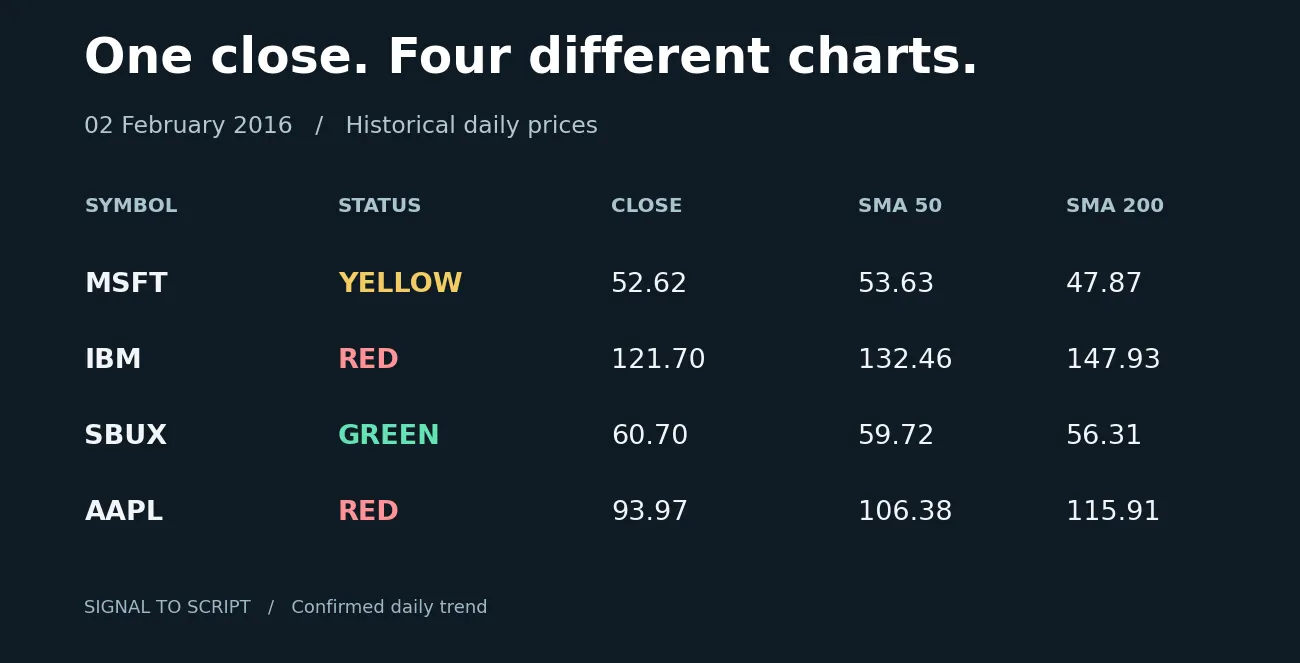
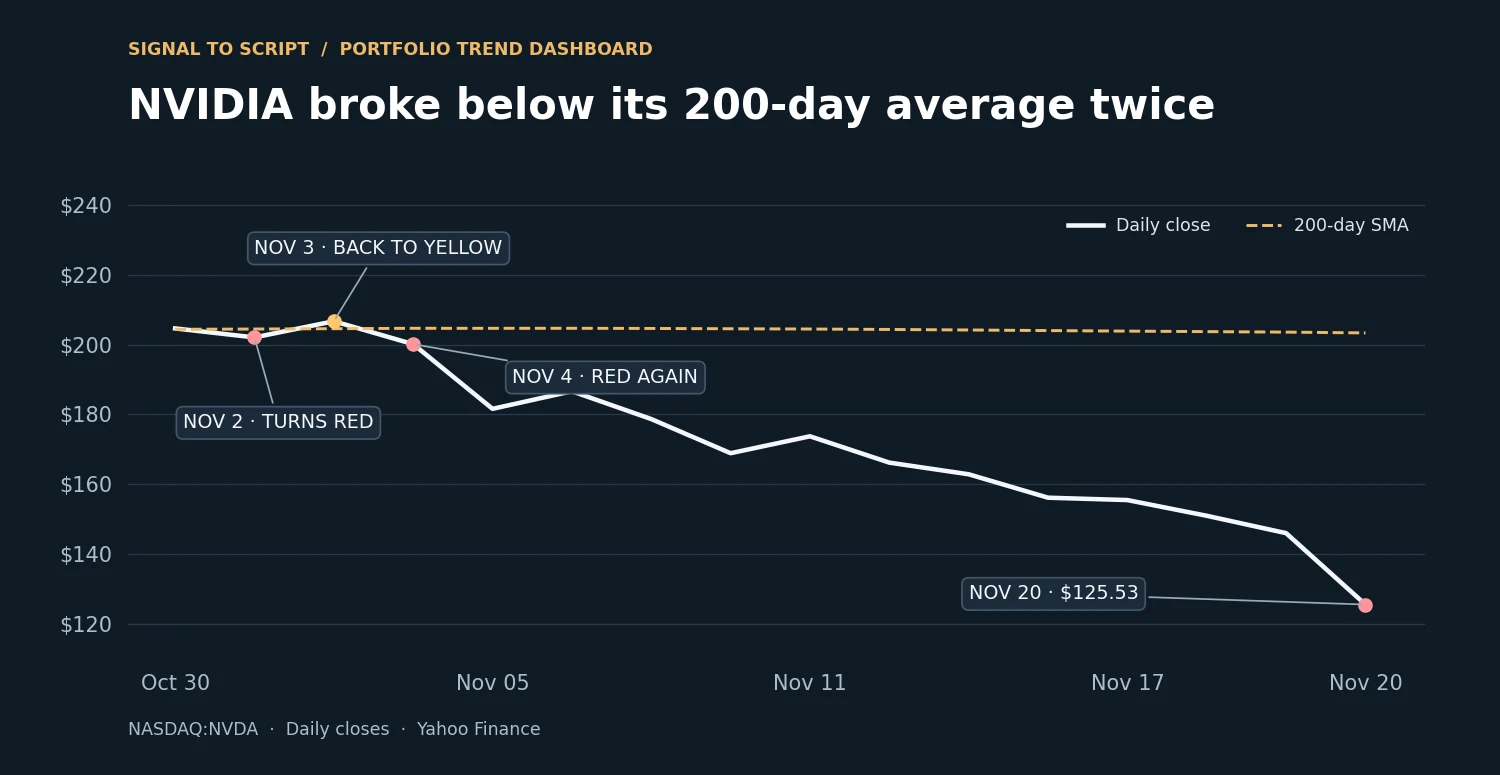
Tell the NVIDIA dashboard story with recent daily closes

diff --git a/public/index.html b/public/index.html
@@ -27,7 +27,7 @@
     </a>
     <div class="img-caption">Actual TradingView gold 15-minute strategy chart from the documented test. <a href="/articles/gold-breakout-15m-strategy.html">Read the full breakdown</a>.</div>
   </div>
-</div><div class="feature"><div class="feature-body"><div class="eyebrow">Premium launch deal · Pine Script v6</div><h3>Supertrend + DEMA Reversal Strategy</h3><div class="premium-price-line"><strong>From $4.99 USD</strong> <s>$49</s><span class="deal-discount">LIFETIME ACCESS</span></div><p>A modified Supertrend that uses DEMA as its source and converts buy/sell signals into simulated long and short trades.</p><ul class="feature-points"><li><b>Original:</b> Supertrend shows trend direction and signals.</li><li><b>Modified:</b> Select DEMA(50) or another price source.</li><li><b>Added:</b> Reversal trades on opposite signals, with 1-hour signals by default.</li></ul><div class="actions"><a class="btn btn-outline" href="articles/supertrend-dema-reversal-strategy.html">Read article</a><a class="btn" href="/checkout?script=supertrend-dema-reversal#manual-script-request" data-buy-script="supertrend-dema-reversal">Join for $4.99</a><span class="premium-sales-note">Quick request · We’ll email payment instructions</span></div></div><div class="feature-media"><div class="image-frame chart-frame"><img alt="Historical BTC/USDT one-hour chart with Supertrend DEMA bands and Buy/Sell signals" src="images/supertrend-dema-btcusdt-1h.svg" loading="lazy"/></div><div class="img-caption">Real BTC/USDT 1-hour candles with calculated Supertrend + DEMA bands. <a href="https://github.com/SubhayanBiswas/Binance-Vision-Sample-Data" target="_blank" rel="noopener noreferrer">Data source</a>. Not a TradingView screenshot.</div></div></div><div class="feature"><div class="feature-copy"><div class="eyebrow">Premium indicator · Pine Script v6</div><h3>Portfolio Trend Dashboard</h3><p>Which chart needs a second look? Scan up to 30 symbols and get alerted when a confirmed daily trend changes color.</p><div class="actions"><a class="btn" href="/articles/portfolio-trend-dashboard.html">See the dashboard</a><a class="btn btn-outline" href="/checkout?script=portfolio-trend-dashboard" data-buy-script="portfolio-trend-dashboard">Get lifetime access</a></div></div><div class="feature-media"><a class="image-frame image-frame--article" href="/articles/portfolio-trend-dashboard.html"><img src="/images/portfolio-trend-dashboard.webp" width="1300" height="663" loading="lazy" alt="Historical four-stock trend dashboard example"></a></div></div></section><section id="free-scripts"><div class="section-head"><h2>Free TradingView scripts</h2><small>Still free with a guest download or Google sign-in</small></div><div class="feature feature--recent bridge-library-feature"><div class="feature-body">
+</div><div class="feature"><div class="feature-body"><div class="eyebrow">Premium launch deal · Pine Script v6</div><h3>Supertrend + DEMA Reversal Strategy</h3><div class="premium-price-line"><strong>From $4.99 USD</strong> <s>$49</s><span class="deal-discount">LIFETIME ACCESS</span></div><p>A modified Supertrend that uses DEMA as its source and converts buy/sell signals into simulated long and short trades.</p><ul class="feature-points"><li><b>Original:</b> Supertrend shows trend direction and signals.</li><li><b>Modified:</b> Select DEMA(50) or another price source.</li><li><b>Added:</b> Reversal trades on opposite signals, with 1-hour signals by default.</li></ul><div class="actions"><a class="btn btn-outline" href="articles/supertrend-dema-reversal-strategy.html">Read article</a><a class="btn" href="/checkout?script=supertrend-dema-reversal#manual-script-request" data-buy-script="supertrend-dema-reversal">Join for $4.99</a><span class="premium-sales-note">Quick request · We’ll email payment instructions</span></div></div><div class="feature-media"><div class="image-frame chart-frame"><img alt="Historical BTC/USDT one-hour chart with Supertrend DEMA bands and Buy/Sell signals" src="images/supertrend-dema-btcusdt-1h.svg" loading="lazy"/></div><div class="img-caption">Real BTC/USDT 1-hour candles with calculated Supertrend + DEMA bands. <a href="https://github.com/SubhayanBiswas/Binance-Vision-Sample-Data" target="_blank" rel="noopener noreferrer">Data source</a>. Not a TradingView screenshot.</div></div></div><div class="feature"><div class="feature-copy"><div class="eyebrow">Premium indicator · Pine Script v6</div><h3>Portfolio Trend Dashboard</h3><p>Which chart needs a second look? Scan up to 30 symbols and get alerted when a confirmed daily trend changes color.</p><div class="actions"><a class="btn" href="/articles/portfolio-trend-dashboard.html">See the dashboard</a><a class="btn btn-outline" href="/checkout?script=portfolio-trend-dashboard" data-buy-script="portfolio-trend-dashboard">Get lifetime access</a></div></div><div class="feature-media"><a class="image-frame image-frame--article" href="/articles/portfolio-trend-dashboard.html"><img src="/images/portfolio-trend-dashboard.webp" width="1500" height="775" loading="lazy" alt="NVIDIA daily closes showing two breaks below its 200-day average"></a></div></div></section><section id="free-scripts"><div class="section-head"><h2>Free TradingView scripts</h2><small>Still free with a guest download or Google sign-in</small></div><div class="feature feature--recent bridge-library-feature"><div class="feature-body">
 <div class="eyebrow">Free automation example · Pine Script v6</div>
 <h3>Supertrend Visual Bridge for Binance Futures</h3>
 <p>Connect Supertrend signals to a Chrome extension with a color strip on the chart. No TradingView technical alerts, webhooks or separate bot subscription.</p>
@@ -66,4 +66,4 @@
 <h2>Backtest Pine Script strategies for free. As often as you want.</h2>
 <p>Pine Backtest Studio lets you import your own historical candles, run unlimited strategy tests and look beyond net profit with drawdown, Sharpe, Sortino, weekly results, trade streaks and downloadable trade logs.</p></div>
 <div class="btst-home-promo-actions"><a href="https://pine-backtest-studio.pages.dev/" target="_blank" rel="noopener noreferrer">Open free backtester ↗</a><a href="/articles/free-pine-script-backtester-tradingview-alternative.html">See features &amp; how it works →</a></div>
-</section><section class="library" id="articles"><div class="section-head"><h2>Latest articles</h2><small>Notes from the development work</small></div><div class="entry"><div><div class="eyebrow">Portfolio tools / Premium Pine Script</div><div class="entry-title">Four Stocks. One Trend Change. Which Chart Would You Open?</div><p>See the one daily trend change a 30-symbol watchlist dashboard would have flagged in this four-stock example.</p></div><a class="entry-link" href="/articles/portfolio-trend-dashboard.html">Read →</a></div><div class="entry"><div><div class="eyebrow">Gold price action / Pine Script v6</div><div class="entry-title">Gold Flashed a Buy Signal. Why Did This Strategy Wait?</div><p>One no-wick setup retested in six candles. Another came back too late. Follow both on real 15-minute gold charts.</p></div><a class="entry-link" href="/articles/no-wick-ema-retest-strategy.html">Read →</a></div><div class="entry"><div><div class="eyebrow">Free tool / Pine Script backtesting</div><div class="entry-title">A Free Pine Script Backtester with Unlimited Runs and Advanced Analytics</div><p>Import price data, run a Pine v5/v6 strategy and study drawdowns, Sharpe, Sortino, streaks and trade logs without a subscription.</p></div><a class="entry-link" href="/articles/free-pine-script-backtester-tradingview-alternative.html">Read →</a></div><div class="entry"><div><div class="eyebrow">Gold breakout strategy / Pine Script v6</div><div class="entry-title">Gold 15-Minute Breakout: One Range, One Trade a Day</div><p>Follow the overnight-range entry rules, view real gold charts and backtest results, and get the premium Pine Script during the launch offer.</p></div><a class="entry-link" href="/articles/gold-breakout-15m-strategy.html">Read →</a></div><div class="entry"><div><div class="eyebrow">Automation guide / TradingView &amp; Futures</div><div class="entry-title">How to Automate TradingView Indicators on Binance for Free</div><p>No paid alerts or webhooks: Supertrend signals travel through a visual color strip to a Chrome extension that connects with Binance Futures.</p></div><a class="entry-link" href="/articles/automate-tradingview-strategies-chrome-extension.html">Read →</a></div><div class="entry"><div><div class="eyebrow">Candlestick alerts / Pine Script v6</div><div class="entry-title">Pinbar + 3 Line Strike: One Confirmed Combo Alert</div><p>Combine a pinbar with the next candle’s 3LS signal and choose bullish, bearish or any-direction notifications.</p></div><a class="entry-link" href="/articles/pinbar-3-line-strike-combo-alerts.html">Read →</a></div><div class="entry"><div><div class="eyebrow">Indicator modification / 1R price action</div><div class="entry-title">1R Bear Breakout: Which Setups Actually Reach 1R?</div><p>Follow breakout signals beyond the entry, with 1R hit, expiry and multi-trigger tracking.</p></div><a class="entry-link" href="/articles/1r-bear-breakout-achievements.html">Read →</a></div><div class="entry"><div><div class="eyebrow">Indicator modification / Strategy</div><div class="entry-title">Supertrend + DEMA: What changed and how the new strategy works</div><p>A detailed walkthrough of the indicator, strategy modification and the limited-time premium source-code offer.</p></div><a class="entry-link" href="articles/supertrend-dema-reversal-strategy.html">Read →</a></div><div class="entry"><div><div class="eyebrow">Coming soon / Comparison</div><div class="entry-title">Supertrend with HL2 vs DEMA(50)</div><p>How the source setting changes the indicator, illustrated using real chart examples.</p></div><span class="minor">Planned</span></div></section><section id="about" style="padding:12px 0 72px;max-width:680px"><div class="section-head"><h2>About CW</h2></div><p style="color:var(--muted);font-size:15px;line-height:1.8">I'm a software engineer who works on TradingView indicators and Pine Script strategies. This is where I share some of the scripts, the original ideas behind them, and what I changed along the way. The aim is to keep everything easy to understand, even if you're new to Pine Script.</p><div id="support"><h2 style="font:600 24px var(--serif);margin:20px 0 9px">Need help with a script?</h2><p style="color:var(--muted);font-size:15px;line-height:1.8">If you run into any issues with installation, chart configuration, or anything related to a script, email <a href="mailto:support@signaltoscript.com">support@signaltoscript.com</a>.</p></div></section></div></main><footer class="footer"><div class="wrap foot"><div>© 2026 Signal to Script · by CW. Independent Pine Script guides and examples.</div><div>TradingView is a trademark of its respective owner. Not financial advice.</div></div><nav class="policy-links" aria-label="Legal and business policies"><a href="/terms.html">Terms &amp; Conditions</a><a href="/refunds.html">Refund &amp; Cancellation</a><a href="/privacy.html">Privacy Policy</a><a href="mailto:support@signaltoscript.com">support@signaltoscript.com</a></nav></footer><script defer="" src="/site.js"></script></body></html>
+</section><section class="library" id="articles"><div class="section-head"><h2>Latest articles</h2><small>Notes from the development work</small></div><div class="entry"><div><div class="eyebrow">Portfolio tools / Premium Pine Script</div><div class="entry-title">NVIDIA Turned Red Twice. Here’s What the Dashboard Saw.</div><p>Follow NVIDIA’s first red alert, one-day recovery, and second break below the 200-day average on a four-stock semiconductor watchlist.</p></div><a class="entry-link" href="/articles/portfolio-trend-dashboard.html">Read →</a></div><div class="entry"><div><div class="eyebrow">Gold price action / Pine Script v6</div><div class="entry-title">Gold Flashed a Buy Signal. Why Did This Strategy Wait?</div><p>One no-wick setup retested in six candles. Another came back too late. Follow both on real 15-minute gold charts.</p></div><a class="entry-link" href="/articles/no-wick-ema-retest-strategy.html">Read →</a></div><div class="entry"><div><div class="eyebrow">Free tool / Pine Script backtesting</div><div class="entry-title">A Free Pine Script Backtester with Unlimited Runs and Advanced Analytics</div><p>Import price data, run a Pine v5/v6 strategy and study drawdowns, Sharpe, Sortino, streaks and trade logs without a subscription.</p></div><a class="entry-link" href="/articles/free-pine-script-backtester-tradingview-alternative.html">Read →</a></div><div class="entry"><div><div class="eyebrow">Gold breakout strategy / Pine Script v6</div><div class="entry-title">Gold 15-Minute Breakout: One Range, One Trade a Day</div><p>Follow the overnight-range entry rules, view real gold charts and backtest results, and get the premium Pine Script during the launch offer.</p></div><a class="entry-link" href="/articles/gold-breakout-15m-strategy.html">Read →</a></div><div class="entry"><div><div class="eyebrow">Automation guide / TradingView &amp; Futures</div><div class="entry-title">How to Automate TradingView Indicators on Binance for Free</div><p>No paid alerts or webhooks: Supertrend signals travel through a visual color strip to a Chrome extension that connects with Binance Futures.</p></div><a class="entry-link" href="/articles/automate-tradingview-strategies-chrome-extension.html">Read →</a></div><div class="entry"><div><div class="eyebrow">Candlestick alerts / Pine Script v6</div><div class="entry-title">Pinbar + 3 Line Strike: One Confirmed Combo Alert</div><p>Combine a pinbar with the next candle’s 3LS signal and choose bullish, bearish or any-direction notifications.</p></div><a class="entry-link" href="/articles/pinbar-3-line-strike-combo-alerts.html">Read →</a></div><div class="entry"><div><div class="eyebrow">Indicator modification / 1R price action</div><div class="entry-title">1R Bear Breakout: Which Setups Actually Reach 1R?</div><p>Follow breakout signals beyond the entry, with 1R hit, expiry and multi-trigger tracking.</p></div><a class="entry-link" href="/articles/1r-bear-breakout-achievements.html">Read →</a></div><div class="entry"><div><div class="eyebrow">Indicator modification / Strategy</div><div class="entry-title">Supertrend + DEMA: What changed and how the new strategy works</div><p>A detailed walkthrough of the indicator, strategy modification and the limited-time premium source-code offer.</p></div><a class="entry-link" href="articles/supertrend-dema-reversal-strategy.html">Read →</a></div><div class="entry"><div><div class="eyebrow">Coming soon / Comparison</div><div class="entry-title">Supertrend with HL2 vs DEMA(50)</div><p>How the source setting changes the indicator, illustrated using real chart examples.</p></div><span class="minor">Planned</span></div></section><section id="about" style="padding:12px 0 72px;max-width:680px"><div class="section-head"><h2>About CW</h2></div><p style="color:var(--muted);font-size:15px;line-height:1.8">I'm a software engineer who works on TradingView indicators and Pine Script strategies. This is where I share some of the scripts, the original ideas behind them, and what I changed along the way. The aim is to keep everything easy to understand, even if you're new to Pine Script.</p><div id="support"><h2 style="font:600 24px var(--serif);margin:20px 0 9px">Need help with a script?</h2><p style="color:var(--muted);font-size:15px;line-height:1.8">If you run into any issues with installation, chart configuration, or anything related to a script, email <a href="mailto:support@signaltoscript.com">support@signaltoscript.com</a>.</p></div></section></div></main><footer class="footer"><div class="wrap foot"><div>© 2026 Signal to Script · by CW. Independent Pine Script guides and examples.</div><div>TradingView is a trademark of its respective owner. Not financial advice.</div></div><nav class="policy-links" aria-label="Legal and business policies"><a href="/terms.html">Terms &amp; Conditions</a><a href="/refunds.html">Refund &amp; Cancellation</a><a href="/privacy.html">Privacy Policy</a><a href="mailto:support@signaltoscript.com">support@signaltoscript.com</a></nav></footer><script defer="" src="/site.js"></script></body></html>

diff --git a/public/articles/portfolio-trend-dashboard.html b/public/articles/portfolio-trend-dashboard.html
@@ -4,11 +4,11 @@
 <meta charset="utf-8">
 <meta name="viewport" content="width=device-width, initial-scale=1">
 <title>30-Symbol Portfolio Trend Dashboard for TradingView | Signal to Script</title>
-<meta name="description" content="Scan up to 30 TradingView symbols for confirmed daily trend changes. See why Microsoft turned yellow while Starbucks stayed green, then get the dashboard with lifetime access.">
+<meta name="description" content="On November 2, NVIDIA was the only stock on a four-name chip watchlist to change color. See the alert, the brief recovery, and what happened after the second break.">
 <meta name="robots" content="index, follow">
 <meta property="og:type" content="article">
-<meta property="og:title" content="Four Stocks. One Trend Change. Which Chart Would You Open?">
-<meta property="og:description" content="Scan up to 30 TradingView symbols for confirmed daily trend changes. See why Microsoft turned yellow while Starbucks stayed green, then get the dashboard with lifetime access.">
+<meta property="og:title" content="NVIDIA Turned Red Twice. Here’s What the Dashboard Saw.">
+<meta property="og:description" content="On November 2, NVIDIA was the only stock on a four-name chip watchlist to change color. See the alert, the brief recovery, and what happened after the second break.">
 <meta property="og:image" content="https://signaltoscript.com/images/portfolio-trend-dashboard.webp">
 <link rel="icon" type="image/svg+xml" href="/favicon.svg">
 <link rel="stylesheet" href="/styles.css">
@@ -27,26 +27,32 @@
 <main id="main"><div class="read-wrap article-top">
 <div class="breadcrumb"><a href="/">Home</a> / <a href="/#articles">Articles</a> / Portfolio Trend Dashboard</div>
 <div class="eyebrow">Watchlist tools · TradingView · Pine Script v6</div>
-<h1>Four Stocks. One Trend Change. Which Chart Would You Open?</h1>
-<p class="lead">On February 2, 2016, Apple and IBM both showed red. Starbucks was green. Microsoft was yellow. If I had time to open one chart that evening, I’d pick Microsoft. It was the only one of the four that had changed color since the previous close.</p>
+<h1>NVIDIA Turned Red Twice. Here’s What the Dashboard Saw.</h1>
+<p class="lead">Four chip stocks were on the watchlist going into Monday, November 2. AMD held yellow. Broadcom and Qualcomm stayed red. Only NVIDIA changed color. It had closed just above its 200-day average on Friday. On Monday, it closed below it. That put NVIDIA at the top of the list of charts worth opening.</p>
 <div class="article-meta">By CW · November 22, 2026 · Premium indicator</div>
-<figure class="article-lead-chart"><a href="/images/portfolio-trend-dashboard.webp"><img src="/images/portfolio-trend-dashboard.webp" width="1300" height="663" fetchpriority="high" alt="February 2 daily trend snapshot. Microsoft is yellow at 52.62, IBM and Apple are red, and Starbucks is green."></a>
-<figcaption>Four rows reconstructed from historical daily prices using the dashboard’s default 50- and 200-session averages. Values are rounded for display. <a href="https://github.com/plotly/datasets/blob/master/stockdata.csv">View the price series</a>.</figcaption></figure>
+<figure class="article-lead-chart"><a href="/images/portfolio-trend-dashboard.webp"><img src="/images/portfolio-trend-dashboard.webp" width="1500" height="775" fetchpriority="high" alt="NVIDIA daily closes show a break below the 200-day average on November 2, a recovery on November 3, and a second break on November 4 before falling to $125.53 on November 20."></a>
+<figcaption>NVIDIA’s daily closes and 200-day simple moving average. The dashboard states were reconstructed from the historical close series. <a href="https://finance.yahoo.com/quote/NVDA/history/">Historical prices via Yahoo Finance</a>.</figcaption></figure>
 </div><section class="article"><div class="read-wrap article-body">
-<h2>Why Microsoft was the interesting row</h2>
-<p>Microsoft closed at 52.62. Its 50-day average was 53.63, and its 200-day average was 47.87. A session earlier, it had closed above both averages. Now the shorter average was overhead while the longer one was still below price. That single change took the row from green to yellow.</p>
-<p>Starbucks closed at 60.70, above both 59.72 and 56.31, so it stayed green. Apple and IBM had already closed below their respective 200-day averages the previous session. Their red rows gave me context. Microsoft gave me a reason to open a chart.</p>
-<h2>How the 30-symbol dashboard reads a watchlist</h2>
-<p>The Pine indicator puts up to 30 exchange-qualified symbols in one table. Each enabled row uses the last fully closed daily candle. You can keep a 15-minute chart open during the session and still see the same daily trend reading until another daily candle is confirmed.</p>
-<ul>
-<li><strong>Green</strong> means the daily close is above both moving averages.</li>
-<li><strong>Yellow</strong> means the close is above the 200-day average and at or below the 50-day average.</li>
-<li><strong>Red</strong> means the close is at or below the 200-day average. A bounce above the 50-day average alone can still leave the row red.</li>
-</ul>
-<p>Each row also shows RSI, MACD and its signal line, and daily volume alongside its percentage difference from the 20-day average. If a row changes color, I can check whether volume picked up before opening the chart. The moving averages and close determine the status color.</p>
-<h2>One alert for the symbols you follow</h2>
-<p>I’d start with a group I already review together, such as tech holdings or gold miners. In the indicator settings, name the group, select the exchange and ticker for each holding, and switch off unused slots. For a small watchlist, a handful of rows is enough.</p>
-<p>With status-change alerts enabled, create a TradingView alert for the dashboard and choose <strong>Any alert() function call</strong>. When the script sees a newly confirmed daily value in real time, it reports the symbols that changed and their old and new colors. In the historical example above, the change to investigate would have been <strong>MSFT · GREEN → YELLOW</strong>.</p>
+<h2>Monday’s close put NVIDIA on the radar</h2>
+<p>On October 30, NVIDIA closed at $204.64, just 26 cents above its 200-day simple moving average. It was already below its 50-day average. That combination put the row in yellow. On November 2, the stock opened higher at $207.53, but finished at $202.06. The 200-day average had edged up to $204.46. Once the daily close was available to the indicator, the row would have turned red.</p>
+<table>
+<thead><tr><th scope="col">Chip watchlist</th><th scope="col">Oct 30 close</th><th scope="col">Nov 2 close</th></tr></thead>
+<tbody>
+<tr><th scope="row">NVIDIA · NVDA</th><td>Yellow</td><td><strong>Red ↓</strong></td></tr>
+<tr><th scope="row">AMD</th><td>Yellow</td><td>Yellow</td></tr>
+<tr><th scope="row">Broadcom · AVGO</th><td>Red</td><td>Red</td></tr>
+<tr><th scope="row">Qualcomm · QCOM</th><td>Red</td><td>Red</td></tr>
+</tbody>
+</table>
+<p>With the status-change alert enabled, the change would show up as <strong>NASDAQ:NVDA · YELLOW → RED</strong>. The alert is tied to when TradingView makes the latest closed daily candle available to the script. The watchlist also showed two stocks already in red, but those rows had no new alert to investigate.</p>
+<h2>Tuesday’s bounce was the first test</h2>
+<p>Once I had opened the chart, the question was whether NVIDIA could get back above its 200-day average and stay there. In this replay, I’d wait for a second close above that line before reconsidering a planned add. On Tuesday, NVIDIA closed at $206.69, above its $204.56 average, and flipped back to yellow. That gave the bounce one confirmed close.</p>
+<p>Wednesday was the second test. NVIDIA slipped to $200.13 against a $204.67 average, turning the row red again. On Thursday it closed at $181.60, down 9.3% on the day, on roughly 2.7 times its 20-day average volume. The one-day recovery had already failed before that larger drop arrived.</p>
+<h2>What waiting changed</h2>
+<p>By November 20, NVIDIA closed at $125.53, 37.3% below its November 4 close. In this example, the two-close rule would have kept the planned add on hold when Tuesday’s bounce failed. The dashboard helped choose which chart to review. The daily-close rule gave that review a decision you could check the next day.</p>
+<h2>Set up the same review on your watchlist</h2>
+<p>Add up to 30 exchange-qualified symbols and give the group a name. The default 50- and 200-day averages define three states. Green means the close is above both. Yellow means it’s above the 200-day average and at or below the 50-day average. Red means it’s at or below the 200-day average.</p>
+<p>Enable status-change alerts and create one TradingView alert using <strong>Any alert() function call</strong>. When a row changes, you can inspect the price, both averages, RSI, MACD and relative volume in the same table before opening the chart.</p>
 <div class="download" id="download"><div class="release-label">Premium Pine Script v6 · Lifetime membership</div>
 <h2>Get the Portfolio Trend Dashboard</h2>
 <p>The lifetime pass includes the dashboard source, the rest of the script library, future additions, and help getting your scripts set up and tested. The Black Friday offer runs through November 30, 2026 UTC. Join once for $4.99 by manual request or $12.99 with crypto.</p>
